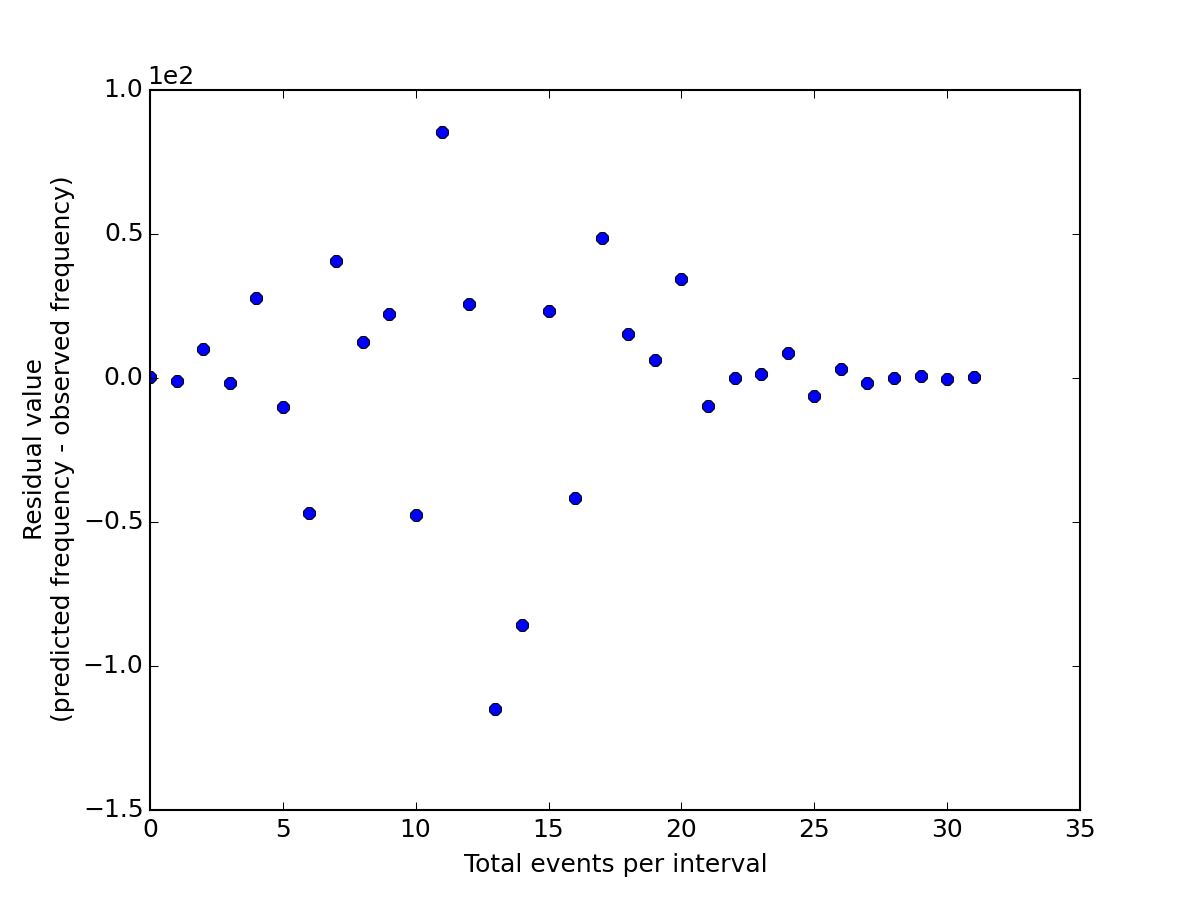
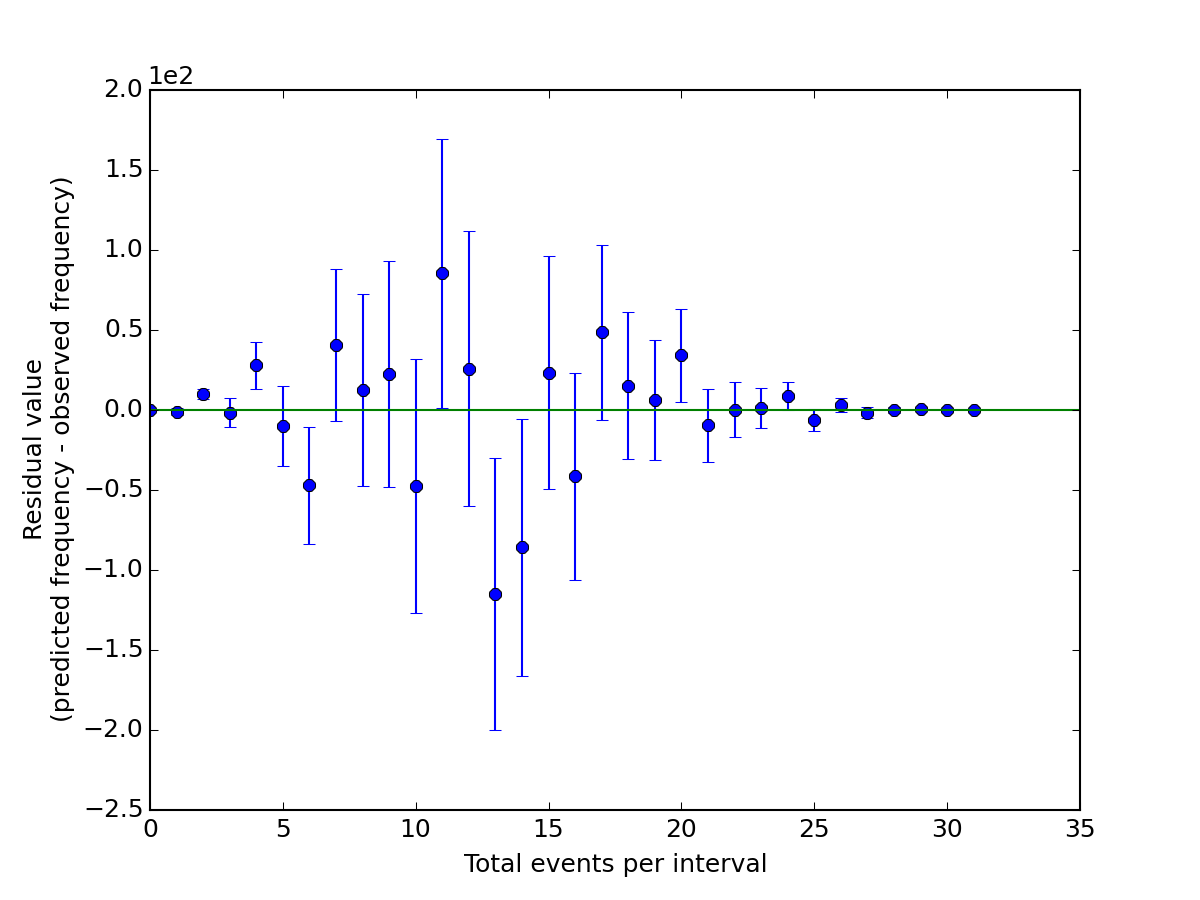
Residuals for 12-run plots complete

diff --git a/Geiger/geigerStats1.py b/Geiger/geigerStats1.py
@@ -155,7 +155,7 @@ sampleColVar = cVar(sTranspose,sampleColMean)
 #################################### EXPERIMENTAL DATA ####################################
 
 # Load data from run of choice
-gData = run7
+gData = histogram
 # Transpose for ease of use in column calculations 
 gDataTransposed = numpy.transpose(gData)
 
@@ -284,7 +284,7 @@ plt.ticklabel_format(style='sci', axis='y', scilimits=(0,0))
 plt.xlabel("Total events per interval",fontsize=12)
 plt.ylabel("Residual value \n(predicted frequency - observed frequency)",fontsize=12)
 plt.errorbar(xvals, residuals, yerr=ye, fmt='o')
-plt.plot([0,25],[0,0])
+plt.plot([0,35],[0,0])
 plt.legend(fontsize=8)
 exec("plt.savefig('Poissonresiduals_%s.png',dpi=150)"%int(overallMean))
 
@@ -297,7 +297,7 @@ plt.ticklabel_format(style='sci', axis='y', scilimits=(0,0))
 plt.xlabel("Total events per interval",fontsize=12)
 plt.ylabel("Residual value \n(predicted frequency - observed frequency)",fontsize=12)
 plt.errorbar(xvals, residuals, yerr=ye, fmt='o')
-plt.plot([0,25],[0,0])
+plt.plot([0,35],[0,0])
 plt.legend(fontsize=8)
 exec("plt.savefig('Gaussianresiduals__%s.png',dpi=150)"%int(overallMean))
 
